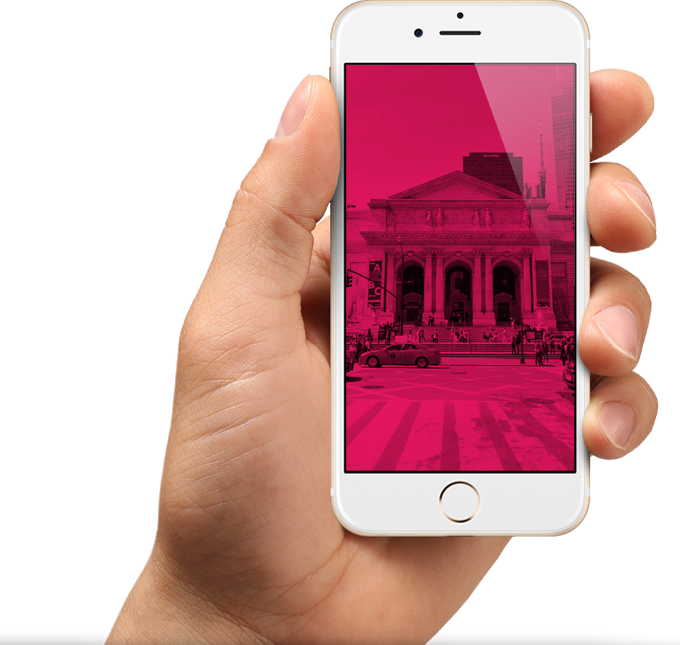
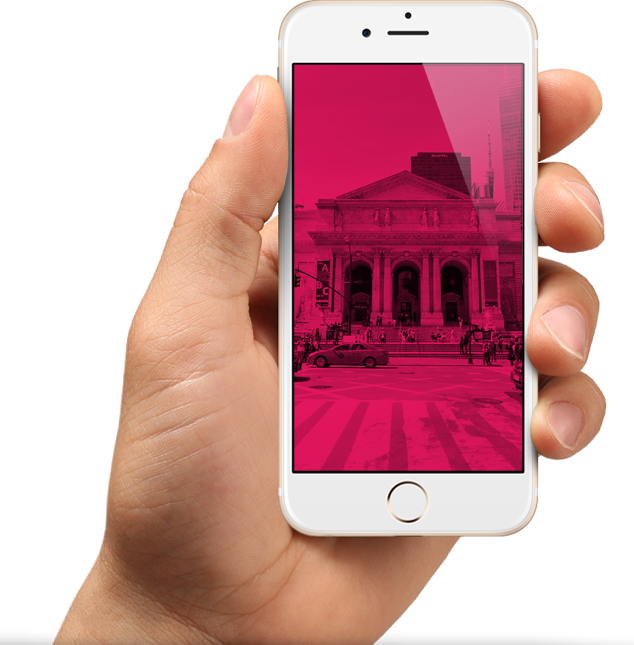
Начинает адаптивную графику

diff --git a/source/photo.html b/source/photo.html
@@ -95,10 +95,11 @@
 
         <div class="photo__card photo__card--panorama photo-card">
           <a class="photo-card__image" href="#">
-            <!-- Оставил все версии для ПП по макету, заменю после лекции на picture -->
-            <img class="photo-card__image-mobile photo-card__image-mobile--panorama" src="img/panorama-mobile@1x.jpg" width="320" height="137" alt="panorama">
-            <img class="photo-card__image-tablet photo-card__image-tablet--panorama" src="img/panorama-tablet@1x.jpg" width="700" height="509" alt="panorama">
-            <img class="photo-card__image-desktop photo-card__image-desktop--panorama" src="img/panorama-desktop@1x.jpg" width="1200" height="506" alt="panorama">
+            <picture>
+              <source media="(min-width: 960px)" srcset="img/panorama-desktop@2x.jpg 2x, img/panorama-desktop@1x.jpg 1x">
+              <source media="(min-width: 660px)" srcset="img/panorama-tablet@2x.jpg 2x, img/panorama-tablet@1x.jpg 1x">
+              <img class="photo-card__image photo-card__image--panorama" src="img/panorama-mobile@1x.jpg" srcset="img/panorama-mobile@2x.jpg 2x" width="320" height="137" alt="panorama">
+            </picture>
           </a>
           <div class="photo-card__wrapper container">
             <blockquote class="photo-card__quote photo-card__quote--panorama">
@@ -113,9 +114,11 @@
         <div class="photo__list-card container">
           <div class="photo__card photo-card">
             <a class="photo-card__image" href="#">
-              <img class="photo-card__image-mobile" src="img/photo-car-mobile@1x.jpg" width="280" height="180" alt="camera and car">
-              <img class="photo-card__image-tablet" src="img/photo-car-tablet@1x.jpg" width="300" height="300" alt="camera and car">
-              <img class="photo-card__image-desktop" src="img/photo-car-desktop@1x.jpg" width="300" height="400" alt="camera and car">
+              <picture>
+                <source media="(min-width: 960px)" srcset="img/photo-car-desktop@2x.jpg 2x, img/photo-car-desktop@1x.jpg 1x">
+                <source media="(min-width: 660px)" srcset="img/photo-car-tablet@2x.jpg 2x, img/photo-car-tablet@1x.jpg 1x">
+                <img class="photo-card__image" src="img/photo-car-mobile@1x.jpg" srcset="img/photo-car-mobile@2x.jpg 2x" width="280" height="180" alt="camera and car">
+              </picture>
             </a>
             <blockquote class="photo-card__quote">
               <cite class="photo-card__author"><b class="photo-card__author-name">Левон</b> (5 часов назад)</cite>
@@ -127,9 +130,11 @@
           </div>
           <div class="photo__card photo-card">
             <a class="photo-card__image" href="#">
-              <img class="photo-card__image-mobile" src="img/photo-drumset-mobile@1x.jpg" width="280" height="180" alt="guitars">
-              <img class="photo-card__image-tablet" src="img/photo-drumset-tablet@1x.jpg" width="300" height="300" alt="guitars">
-              <img class="photo-card__image-desktop" src="img/photo-drumset-desktop@1x.jpg" width="300" height="400" alt="guitars">
+              <picture>
+                <source media="(min-width: 960px)" srcset="img/photo-drumset-desktop@2x.jpg 2x, img/photo-drumset-desktop@1x.jpg 1x">
+                <source media="(min-width: 660px)" srcset="img/photo-drumset-tablet@2x.jpg 2x, img/photo-drumset-tablet@1x.jpg 1x">
+                <img class="photo-card__image" src="img/photo-drumset-mobile@1x.jpg" srcset="img/photo-drumset-mobile@2x.jpg 2x" width="280" height="180" alt="guitars">
+              </picture>
             </a>
             <blockquote class="photo-card__quote">
               <cite class="photo-card__author"><b class="photo-card__author-name">Антон</b> (12 часов назад)</cite>
@@ -140,9 +145,11 @@
           </div>
           <div class="photo__card photo-card">
             <a class="photo-card__image" href="#">
-              <img class="photo-card__image-mobile" src="img/photo-window-mobile@1x.jpg" width="280" height="180" alt="sky">
-              <img class="photo-card__image-tablet" src="img/photo-window-tablet@1x.jpg" width="300" height="300" alt="sky">
-              <img class="photo-card__image-desktop" src="img/photo-window-desktop@1x.jpg" width="300" height="400" alt="sky">
+              <picture>
+                <source media="(min-width: 960px)" srcset="img/photo-window-desktop@2x.jpg 2x, img/photo-window-desktop@1x.jpg 1x">
+                <source media="(min-width: 660px)" srcset="img/photo-window-tablet@2x.jpg 2x, img/photo-window-tablet@1x.jpg 1x">
+                <img class="photo-card__image" src="img/photo-window-mobile@1x.jpg" srcset="img/photo-window-mobile@2x.jpg 2x" width="280" height="180" alt="sky">
+              </picture>
             </a>
             <blockquote class="photo-card__quote">
               <cite class="photo-card__author"><b class="photo-card__author-name">Борис</b> (20 часов назад)</cite>
@@ -153,9 +160,11 @@
           </div>
           <div class="photo__card photo-card">
             <a class="photo-card__image" href="#">
-              <img class="photo-card__image-mobile" src="img/photo-fair-mobile@1x.jpg" width="280" height="180" alt="kuban melon">
-              <img class="photo-card__image-tablet" src="img/photo-fair-tablet@1x.jpg" width="300" height="300" alt="kuban melon">
-              <img class="photo-card__image-desktop" src="img/photo-fair-desktop@1x.jpg" width="300" height="400" alt="kuban melon">
+              <picture>
+                <source media="(min-width: 960px)" srcset="img/photo-fair-desktop@2x.jpg 2x, img/photo-fair-desktop@1x.jpg 1x">
+                <source media="(min-width: 660px)" srcset="img/photo-fair-tablet@2x.jpg 2x, img/photo-fair-tablet@1x.jpg 1x">
+                <img class="photo-card__image" src="img/photo-fair-mobile@1x.jpg" srcset="img/photo-fair-mobile@2x.jpg 2x" width="280" height="180" alt="kuban melon">
+              </picture>
             </a>
             <blockquote class="photo-card__quote">
               <cite class="photo-card__author"><b class="photo-card__author-name">Сергей</b> (25 часов назад)</cite>
@@ -166,9 +175,11 @@
           </div>
           <div class="photo__card photo-card">
             <a class="photo-card__image" href="#">
-              <img class="photo-card__image-mobile" src="img/photo-pov-mobile@1x.jpg" width="280" height="180" alt="mountains">
-              <img class="photo-card__image-tablet" src="img/photo-pov-tablet@1x.jpg" width="300" height="300" alt="mountains">
-              <img class="photo-card__image-desktop" src="img/photo-pov-desktop@1x.jpg" width="300" height="400" alt="mountains">
+              <picture>
+                <source media="(min-width: 960px)" srcset="img/photo-pov-desktop@2x.jpg 2x, img/photo-pov-desktop@1x.jpg 1x">
+                <source media="(min-width: 660px)" srcset="img/photo-pov-tablet@2x.jpg 2x, img/photo-pov-tablet@1x.jpg 1x">
+                <img class="photo-card__image" src="img/photo-pov-mobile@1x.jpg" srcset="img/photo-pov-mobile@2x.jpg 2x" width="280" height="180" alt="mountains">
+              </picture>
             </a>
             <blockquote class="photo-card__quote">
               <cite class="photo-card__author"><b class="photo-card__author-name">Максим</b> (40 часов назад)</cite>
@@ -179,9 +190,11 @@
           </div>
           <div class="photo__card photo-card">
             <a class="photo-card__image" href="#">
-              <img class="photo-card__image-mobile" src="img/photo-wing-mobile@1x.jpg" width="280" height="180" alt="plane">
-              <img class="photo-card__image-tablet" src="img/photo-wing-tablet@1x.jpg" width="300" height="300" alt="plane">
-              <img class="photo-card__image-desktop" src="img/photo-wing-desktop@1x.jpg" width="300" height="400" alt="plane">
+              <picture>
+                <source media="(min-width: 960px)" srcset="img/photo-wing-desktop@2x.jpg 2x, img/photo-wing-desktop@1x.jpg 1x">
+                <source media="(min-width: 660px)" srcset="img/photo-wing-tablet@2x.jpg 2x, img/photo-wing-tablet@1x.jpg 1x">
+                <img class="photo-card__image" src="img/photo-wing-mobile@1x.jpg" srcset="img/photo-wing-mobile@2x.jpg 2x" width="280" height="180" alt="plane">
+              </picture>
             </a>
             <blockquote class="photo-card__quote">
               <cite class="photo-card__author"><b class="photo-card__author-name">Надежда</b> (45 часов назад)</cite>

diff --git a/source/sass/blocks/features.scss b/source/sass/blocks/features.scss
@@ -28,6 +28,13 @@
   background-repeat: no-repeat;
 }
 
+@media (min-resolution: 1.5dppx) {
+  .features__wrapper {
+    background-image: url("../img/iphone-screen-mobile@2x.png");
+    background-size: 157px auto;
+  }
+}
+
 .features__slogan {
   background-color: $white;
 }
@@ -93,6 +100,13 @@
     background-image: url("../img/iphone-screen-3-tablet@1x.png");
     background-position: 21px 51px;
     background-repeat: no-repeat;
+  }
+
+  @media (min-resolution: 1.5dppx) {
+    .features__wrapper {
+      background-image: url("../img/iphone-screen-3-tablet@2x.png");
+      background-size: 268px auto;
+    }
   }
 
   .features__slogan-text {
@@ -196,6 +210,27 @@
       background-image: url("../img/iphone-screen-3-desktop@1x.png");
       background-position: -25px 0;
       background-repeat: no-repeat;
+    }
+  }
+
+  @media (min-resolution: 1.5dppx) {
+    .features__item {
+      &:nth-child(1) {
+        background-image: url("../img/iphone-screen-1-desktop@2x.png");
+        background-size: 292px auto;
+      }
+
+      &:nth-child(2) {
+        background-image: url("../img/iphone-screen-2-desktop@2x.png");
+        background-repeat: no-repeat;
+        background-size: 292px auto;
+      }
+
+      &:nth-child(3) {
+        background-image: url("../img/iphone-screen-3-desktop@2x.png");
+        background-repeat: no-repeat;
+        background-size: 292px auto;
+      }
     }
   }
 

diff --git a/source/sass/blocks/photo-card.scss b/source/sass/blocks/photo-card.scss
@@ -4,18 +4,12 @@
   text-align: left;
 }
 
-// Заменю на picture и уберу эти классы после лекции
-.photo-card__image-mobile {
+.photo-card__image {
   &--panorama {
     width: 100%;
 
     object-fit: cover;
   }
-}
-
-.photo-card__image-tablet,
-.photo-card__image-desktop {
-  display: none;
 }
 
 .photo-card__quote {
@@ -113,18 +107,15 @@
 }
 
 @media (min-width: 660px) {
-  .photo-card__image-mobile,
-  .photo-card__image-desktop {
-    display: none;
-  }
-
-  .photo-card__image-tablet {
-    display: block;
+  .photo-card__image {
+    width: 300px;
+    height: 300px;
 
     &--panorama {
-      width: 100%;
+      display: block;
 
-      object-fit: cover;
+      width: 100%;
+      height: 509px;
     }
   }
 
@@ -134,7 +125,6 @@
     flex-direction: column;
 
     padding: 24px 0 21px 27px;
-    margin-top: 0;
     min-height: 110px;
   }
 
@@ -179,18 +169,13 @@
 }
 
 @media (min-width: 960px) {
-  .photo-card__image-mobile,
-  .photo-card__image-tablet {
-    display: none;
-  }
-
-  .photo-card__image-desktop {
-    display: block;
+  .photo-card__image {
+    width: 300px;
+    height: 400px;
 
     &--panorama {
       width: 100%;
-
-      object-fit: cover;
+      height: 506px;
     }
   }
 

diff --git a/source/index.html b/source/index.html
@@ -103,9 +103,11 @@
         <section class="promo">
           <h1 class="visually-hidden">Пинк - раскрасьте серые будни</h1>
           <p class="promo__slogan">Взгляните на жизнь иначе!</p>
-          <img class="promo__image-mobile" src="img/iphone-hand-mobile@1x.png" width="258" height="286" alt="example">
-          <img class="promo__image-tablet" src="img/iphone-hand-tablet2@1x.png" width="517" height="544" alt="example">
-          <img class="promo__image-desktop" src="img/iphone-hand-desktop2@1x.png" width="680" height="645" alt="example">
+          <picture>
+            <source media="(min-width: 960px)" srcset="img/iphone-hand-desktop2@2x.png 2x, img/iphone-hand-desktop2@1x.png 1x">
+            <source media="(min-width: 660px)" srcset="img/iphone-hand-tablet2@2x.png 2x, img/iphone-hand-tablet2@1x.png 1x">
+            <img class="promo__image" src="img/iphone-hand-mobile@1x.png" srcset="img/iphone-hand-mobile@2x.png 2x" width="258" height="286" alt="example">
+          </picture>
 
           <div class="promo__download">
             <a class="promo__link" href="https://www.apple.com/ru/ios/app-store/">Скачать приложение</a>

diff --git a/source/sass/blocks/page-header.scss b/source/sass/blocks/page-header.scss
@@ -8,6 +8,12 @@
   background-repeat: no-repeat;
 }
 
+@media (min-resolution: 1.5dppx) {
+  .page-header {
+    background-image: url("../img/bg-back-mobile@2x.jpg");
+  }
+}
+
 .page-header--closed {
   background-position: center 0;
 }
@@ -63,6 +69,14 @@
     background-size: auto;
   }
 
+  @media (min-resolution: 1.5dppx) {
+    .page-header {
+      background-image: url("../img/bg-back-tablet@2x.jpg");
+      background-position: center 257px;
+      background-size: 1200px auto;
+    }
+  }
+
   .page-header--closed {
     background-position: center 0;
   }
@@ -97,6 +111,14 @@
     background-image: url("../img/bg-back-desktop@1x.jpg");
     background-position: center 0;
     background-size: auto;
+  }
+
+  @media (min-resolution: 1.5dppx) {
+    .page-header {
+      background-image: url("../img/bg-back-desktop@2x.jpg");
+      background-position: center 12px;
+      background-size: 2560px auto;
+    }
   }
 
   .page-header--opened .page-header__nav,

diff --git a/source/sass/blocks/promo.scss b/source/sass/blocks/promo.scss
@@ -13,17 +13,9 @@
   font-weight: 300;
 }
 
-.promo__image-mobile {
+.promo__image {
   padding-top: 28px;
   margin-left: -62px;
-}
-
-.promo__image-tablet {
-  display: none;
-}
-
-.promo__image-desktop {
-  display: none;
 }
 
 .promo__download {
@@ -94,15 +86,16 @@
     z-index: 1;
   }
 
-  .promo__image-mobile {
-    display: none;
-  }
-
-  .promo__image-tablet {
+  .promo__image {
     position: absolute;
     display: block;
     top: 73px;
     right: -13px;
+
+    padding: 0;
+    margin: 0;
+    width: 517px;
+    height: 545px;
   }
 
   .promo__download {
@@ -151,19 +144,12 @@
     line-height: 60px;
   }
 
-  .promo__image-mobile {
-    display: none;
-  }
-
-  .promo__image-tablet {
-    display: none;
-  }
-
-  .promo__image-desktop {
-    position: absolute;
-    display: block;
+  .promo__image {
     top: 99px;
-    right: 19px;
+    right: 13px;
+
+    width: 634px;
+    height: 645px;
   }
 
   .promo__download {

diff --git a/source/js/script.js b/source/js/script.js
@@ -3,9 +3,9 @@ var header = document.querySelector(".page-header");
 var nav = document.querySelector(".main-nav");
 var navToggle = document.querySelector(".main-nav__toggle");
 
-header.classList.add("page-header--closed");
 nav.classList.remove("main-nav--nojs");
 nav.classList.add("main-nav--closed");
+header.classList.add("page-header--closed");
 
 navToggle.addEventListener("click", function() {
   if (nav.classList.contains("main-nav--closed")) {
